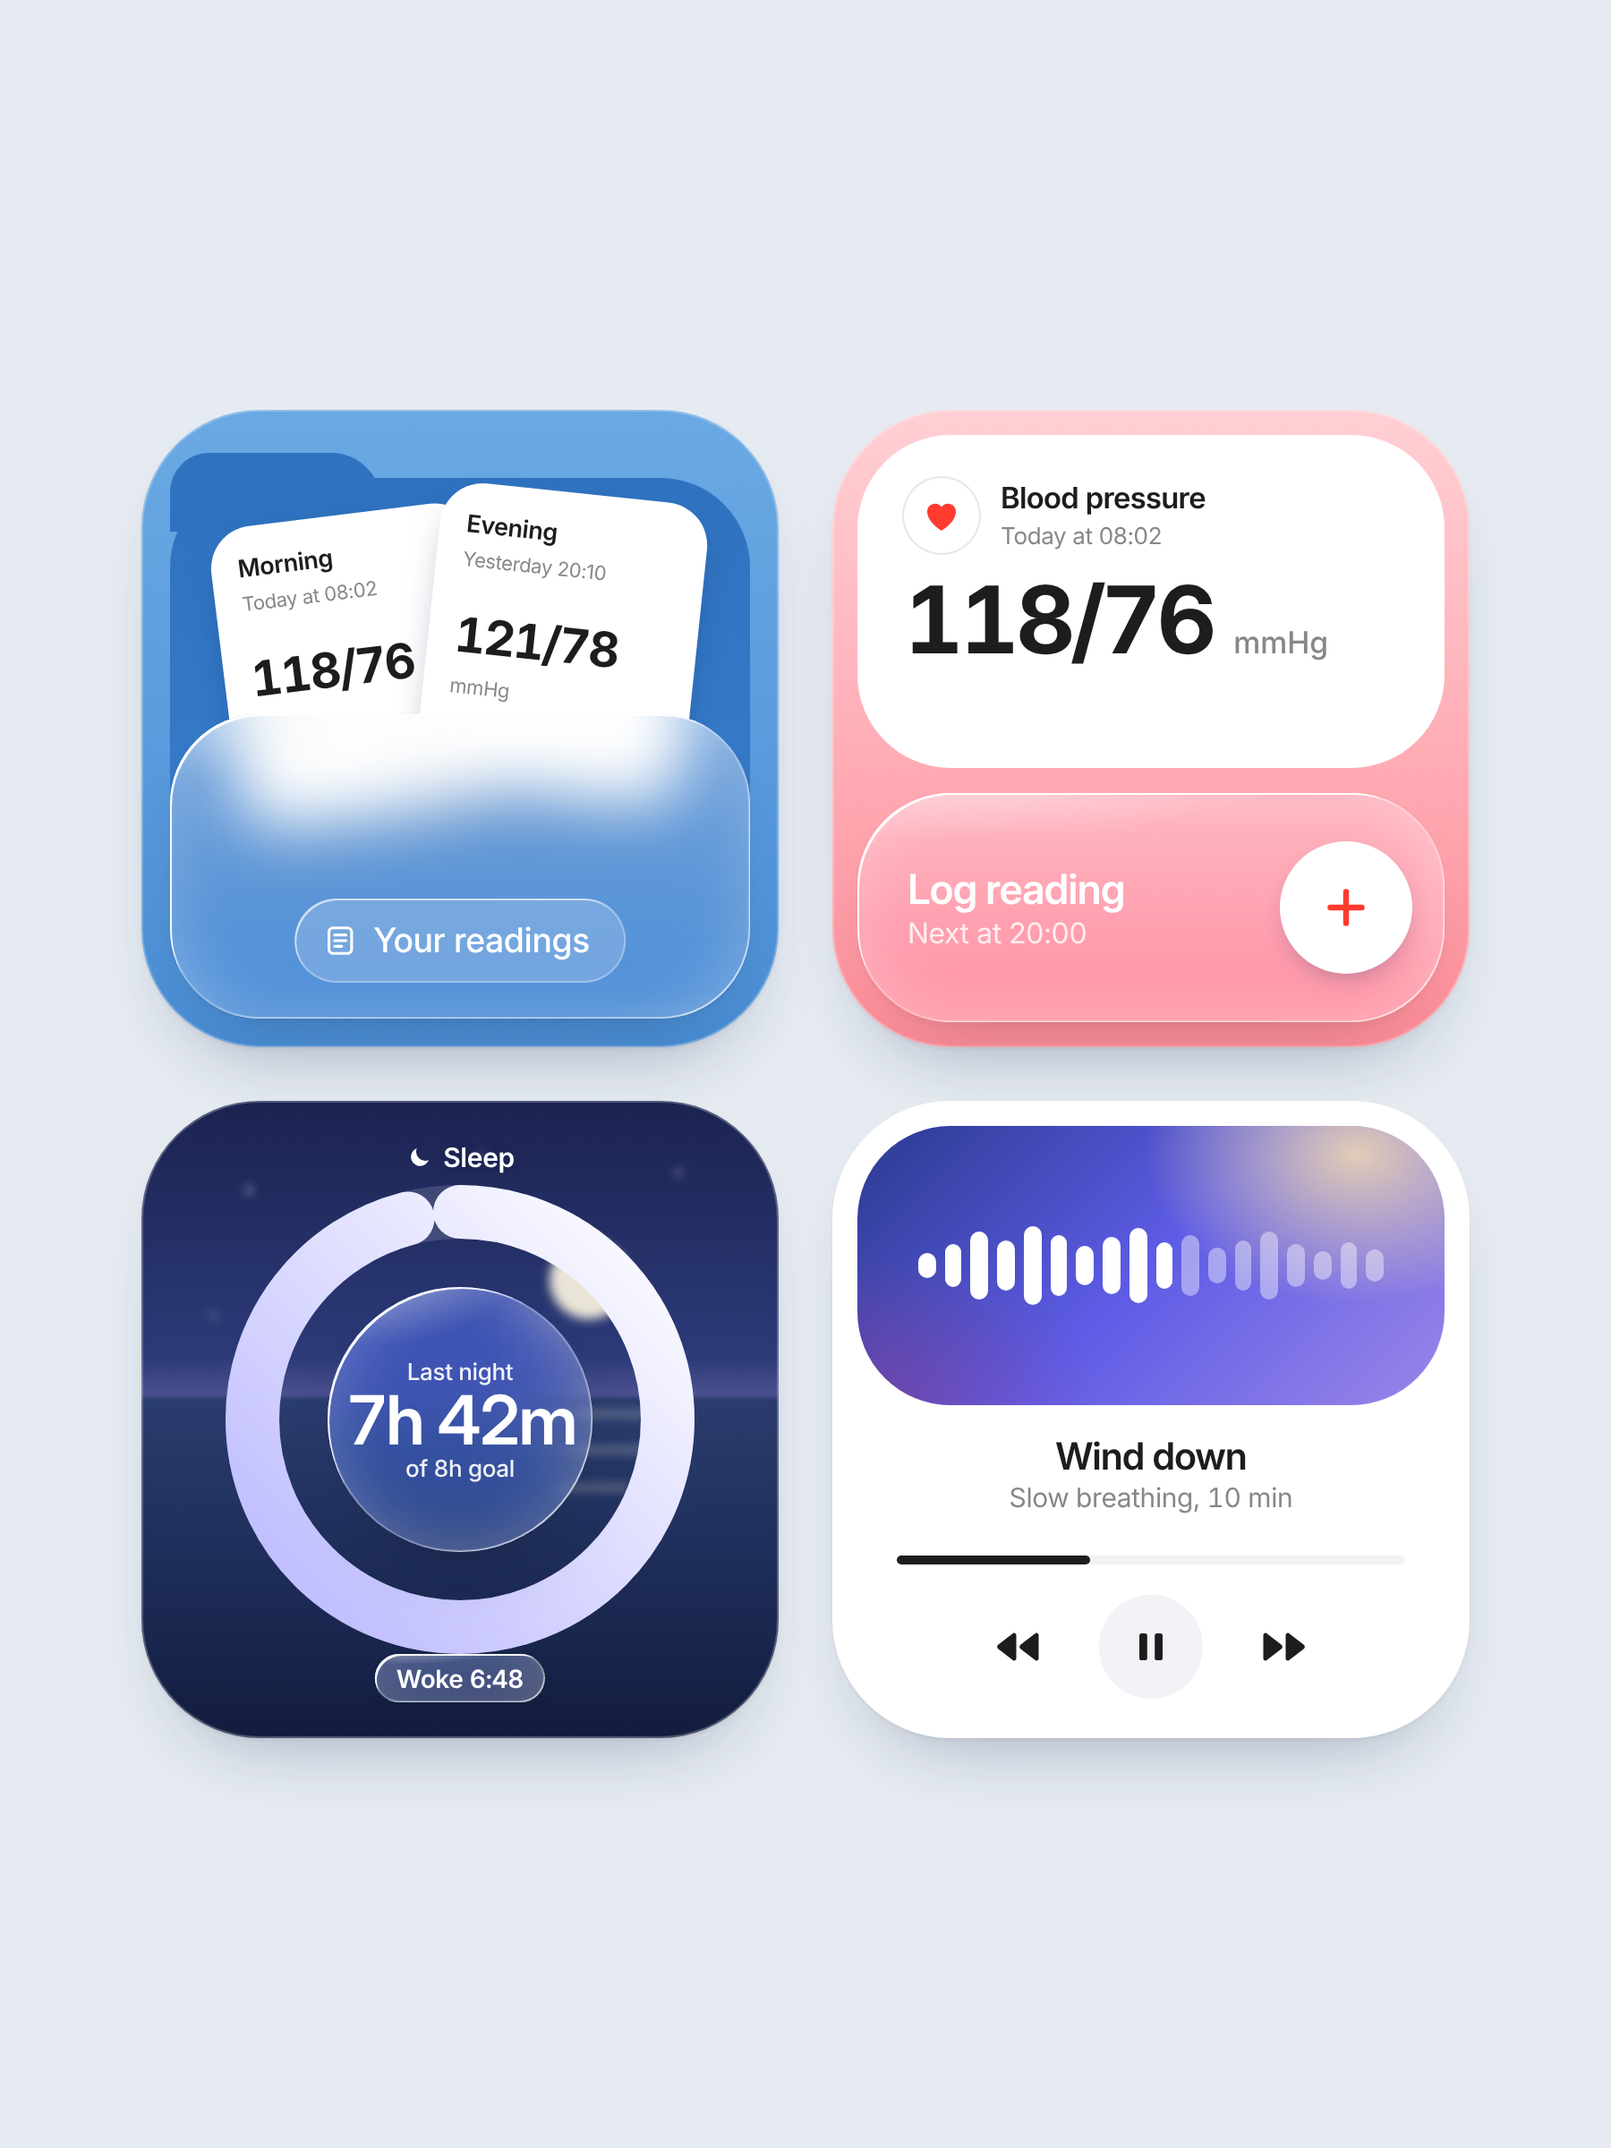
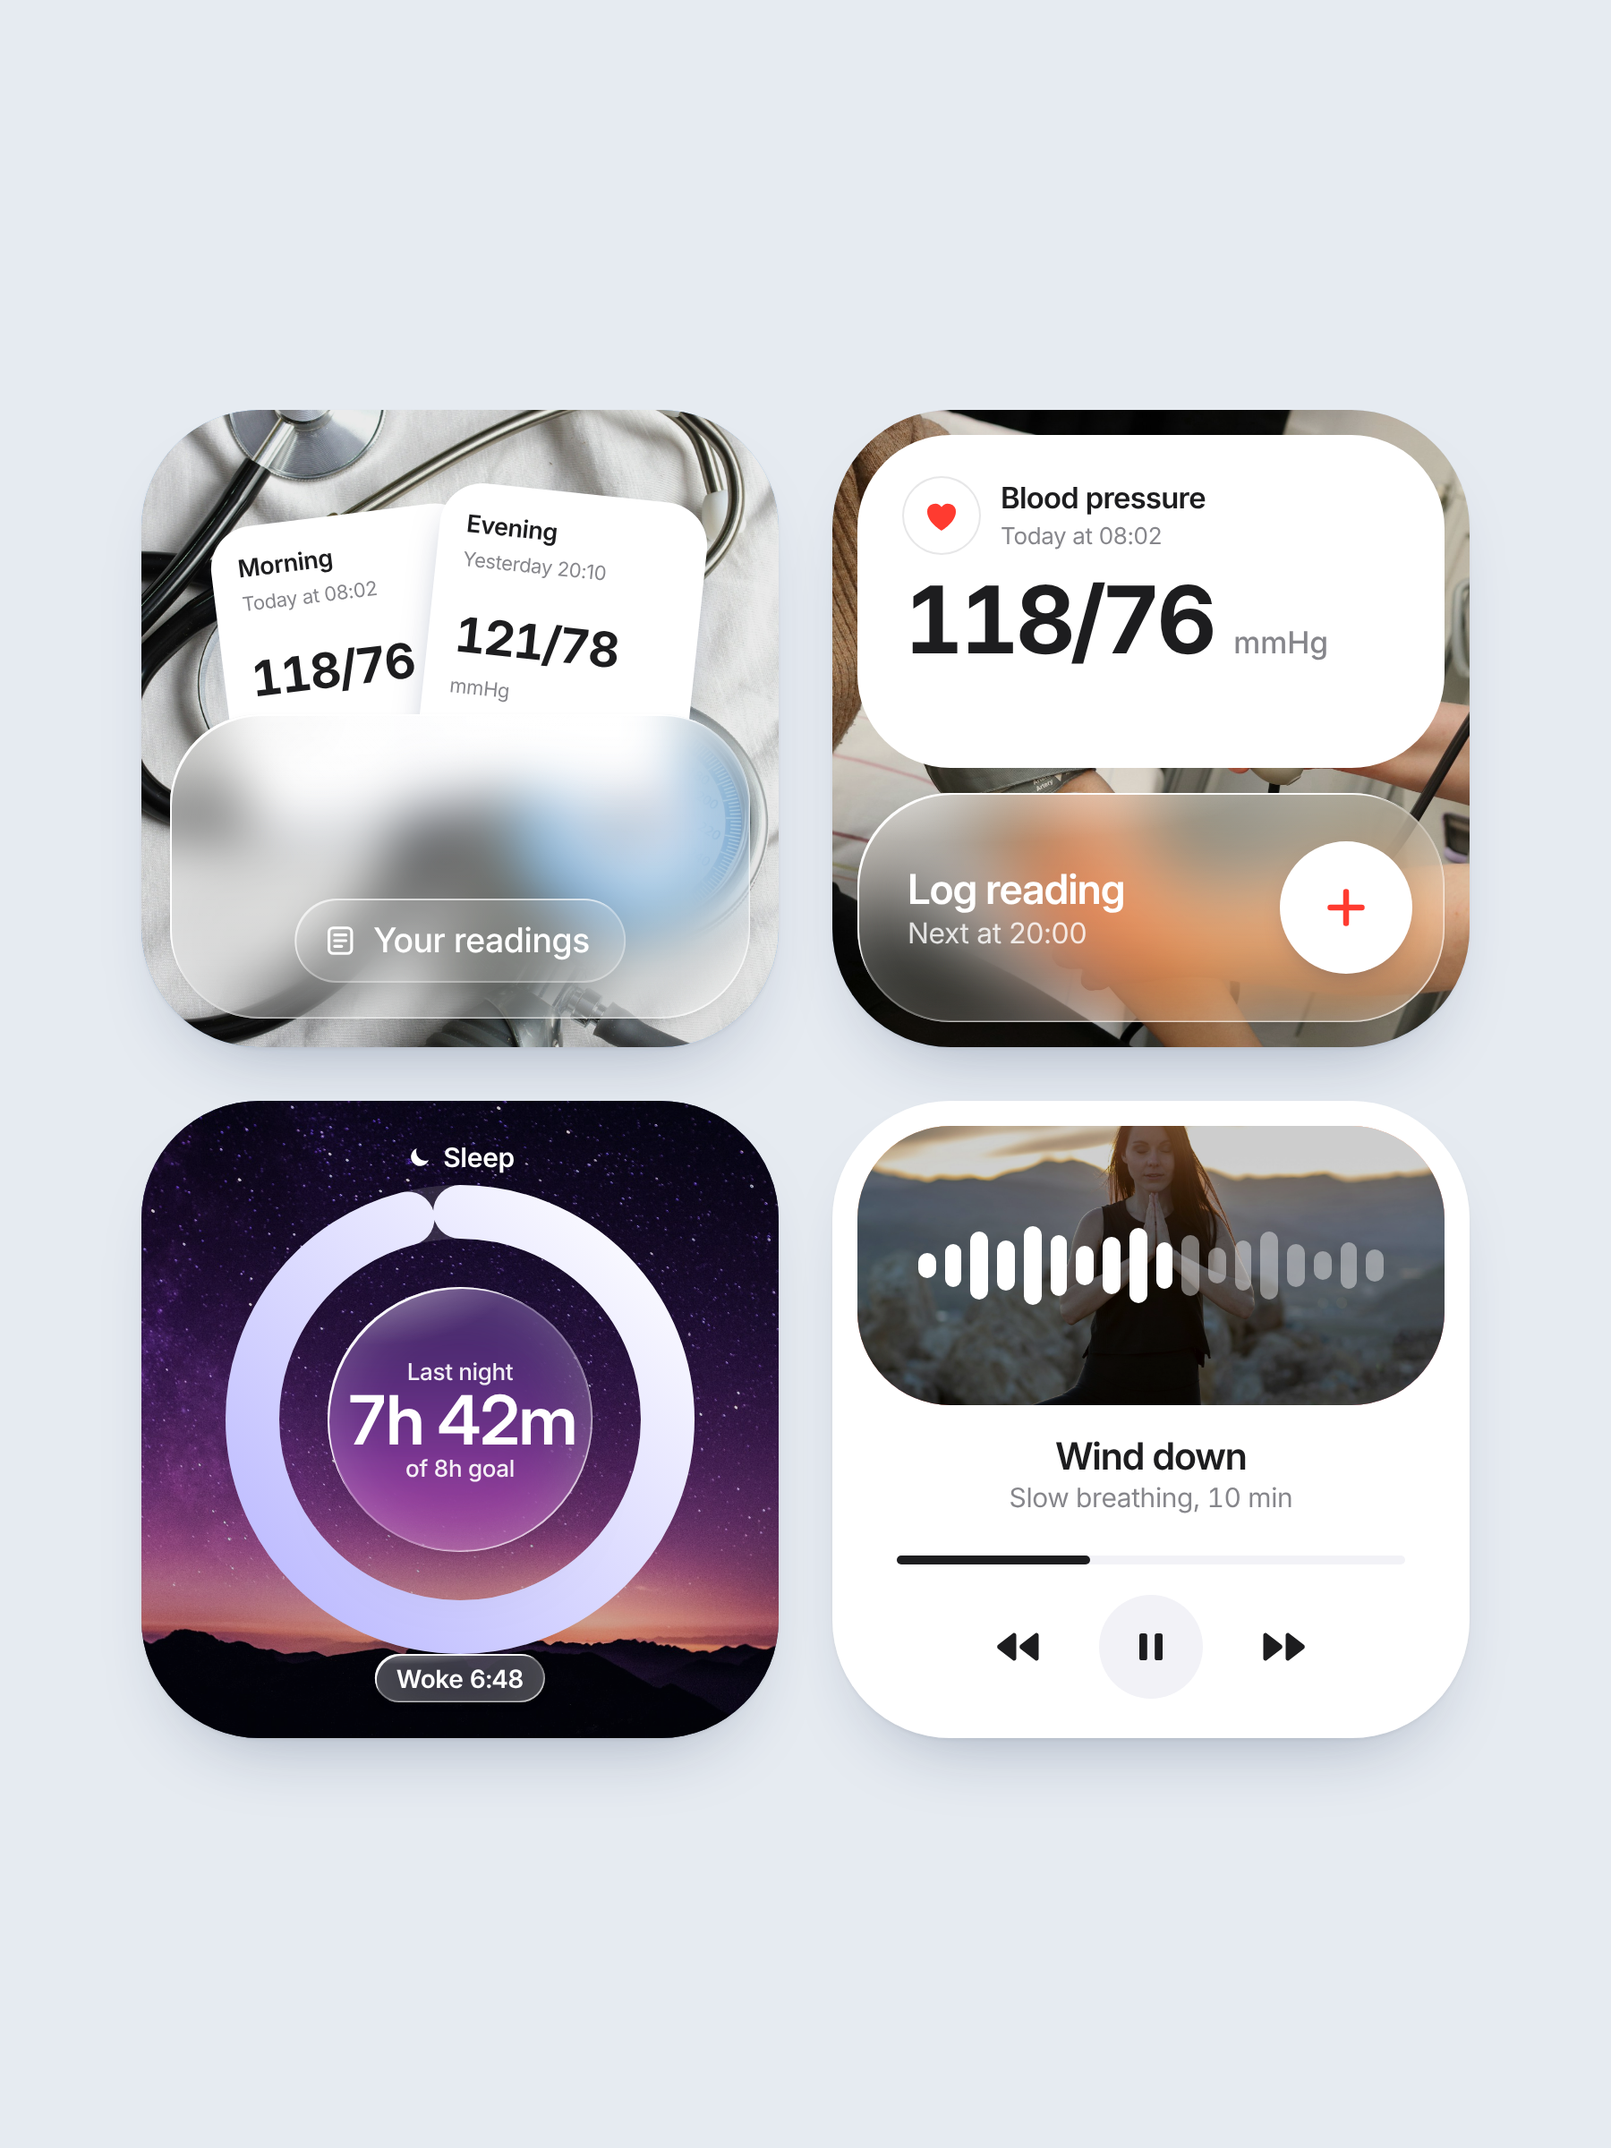
Health posters: put Unsplash health photos behind the glass
Claude-Session: https://claude.ai/code/session_01FJZ6JcD6mJrVFJSGPV3aNY

Changed region(s): [[0.0622, 0.1875, 0.9333, 0.8125]]

diff --git a/design/health/health-widgets.html b/design/health/health-widgets.html
@@ -283,6 +283,18 @@ svg{display:block}
 .f9 .qa div{width:100px;height:100px;border-radius:50%;display:grid;place-items:center}
 .f9 .home{position:absolute;bottom:28px;left:50%;transform:translateX(-50%);width:270px;height:9px;border-radius:9px;background:rgba(255,255,255,.85)}
 .stack{z-index:1}
+
+.ph{position:absolute;inset:0;width:100%;height:100%;object-fit:cover;display:block}
+.scrim{position:absolute;inset:0;pointer-events:none}
+#h1 .brief.lg{background:linear-gradient(180deg,rgba(255,255,255,.5),rgba(255,255,255,.32))}
+#h2 .ap.lg{background:linear-gradient(180deg,rgba(255,255,255,.2),rgba(255,255,255,.08));-webkit-backdrop-filter:blur(30px) saturate(170%);backdrop-filter:blur(30px) saturate(170%);overflow:hidden}
+#h2 .ap>.ap-head,#h2 .ap>.sheets{position:absolute}
+#h5 .note{color:rgba(29,29,31,.72)}
+#h2 .ap-head h2{text-shadow:0 1px 16px rgba(0,0,0,.25)}
+#h3 .w1 .flap.lg{background:linear-gradient(180deg,rgba(255,255,255,.28),rgba(255,255,255,.12));-webkit-backdrop-filter:blur(16px) saturate(150%);backdrop-filter:blur(16px) saturate(150%)}
+#h3 .w2 .bot.lg{background:linear-gradient(180deg,rgba(255,255,255,.22),rgba(255,255,255,.08))}
+#h4 .today.lg{background:linear-gradient(180deg,rgba(255,255,255,.4),rgba(246,247,250,.6))}
+#h5 .card.lg{background:linear-gradient(180deg,rgba(255,255,255,.42),rgba(255,255,255,.26))}
 </style>
 </head>
 <body>
@@ -314,9 +326,7 @@ svg{display:block}
 
 <!-- H1 · Daily insight -->
 <section class="frame f1" id="h1" aria-label="Daily insight">
-  <div class="sun"></div>
-  <div class="hill" style="top:840px;height:520px;background:#c7d6ec;opacity:.8"></div>
-  <div class="hill" style="top:960px;height:520px;left:20%;right:-30%;background:#a9c1e4;opacity:.8"></div>
+  <img class="ph" src="img/walk.jpg" alt="Woman stretching on a sunlit forest road"><div class="scrim" style="background:linear-gradient(180deg,rgba(255,236,200,.15),rgba(0,0,0,.05) 60%,rgba(0,0,0,.2))"></div>
   <div class="stage">
     <div class="fan" aria-hidden="true">
       <div class="n" style="left:0;transform:rotate(-8deg) translateY(26px)">
@@ -347,8 +357,8 @@ svg{display:block}
 
 <!-- H2 · Blood pressure card -->
 <section class="frame f2" id="h2" aria-label="Blood pressure this week">
-  <div class="ap" style="background:linear-gradient(160deg,#ff8f9c 0%,#ff5e72 36%,#ff7a8a 60%,#ffc4c2 82%,#cfe0f7 100%);box-shadow:inset 0 0 0 1px rgba(255,255,255,.35),inset 0 2px 0 rgba(255,255,255,.6),0 40px 80px -46px rgba(180,30,60,.55)">
-    <div class="sheen" style="background:radial-gradient(40% 30% at 82% 22%,rgba(255,255,255,.6),transparent 70%),radial-gradient(30% 50% at 105% 70%,rgba(170,205,255,.9),transparent 70%),radial-gradient(40% 30% at 10% 45%,rgba(255,60,90,.5),transparent 70%)"></div>
+  <img class="ph" src="img/cuff.jpg" alt="Blood pressure cuff and monitor on an arm" style="object-position:40% 50%"><div class="scrim" style="background:rgba(10,10,20,.12)"></div>
+  <div class="ap lg">
     <div class="ap-head">
       <div class="circ"><svg width="48" height="48" style="color:#ff3b30"><use href="#heart"/></svg></div>
       <h2 style="text-shadow:0 1px 12px rgba(160,20,50,.25)">Blood pressure</h2>
@@ -385,14 +395,13 @@ svg{display:block}
       </div>
     </div>
   </div>
-  <svg class="logo" width="48" height="48" viewBox="0 0 24 24"><rect width="24" height="24" rx="6" fill="#1463ff"/><g transform="translate(4 4) scale(.667)"><use href="#hp"/></g></svg>
-</section>
+  </section>
 
 <!-- H3 · Widget set -->
 <section class="frame f3" id="h3" aria-label="Health widget set">
   <div class="grid">
     <div class="w w1">
-      <div class="bk"></div>
+      <img class="ph" src="img/gauge.jpg" alt="Stethoscope and blood pressure gauge"><div class="scrim" style="background:rgba(0,0,0,.08)"></div>
       <div class="pk" style="left:46px;top:58px;transform:rotate(-7deg)"><b>Morning</b><small>Today at 08:02</small>
         <div class="tn" style="font-size:27px;font-weight:700;letter-spacing:-.035em;margin-top:18px">118/76</div><small>mmHg</small></div>
       <div class="pk" style="left:160px;top:46px;transform:rotate(6deg)"><b>Evening</b><small>Yesterday 20:10</small>
@@ -401,7 +410,8 @@ svg{display:block}
       <div class="cap2"><svg width="19" height="19" viewBox="0 0 24 24" fill="none" stroke="currentColor" stroke-width="2" stroke-linejoin="round"><rect x="4" y="3" width="16" height="18" rx="3"/><path d="M8 8h8M8 12h8M8 16h5" stroke-linecap="round"/></svg>Your readings</div>
     </div>
 
-    <div class="w w2" style="background:linear-gradient(180deg,#ffd0d4,#ff8e9a)">
+    <div class="w w2">
+      <img class="ph" src="img/check.jpg" alt="Person holding a blood pressure device" style="object-position:30% 50%"><div class="scrim" style="background:rgba(0,0,0,.12)"></div>
       <div class="top">
         <div class="who"><div class="av" style="background:#fff;box-shadow:0 0 0 1px var(--sep);color:#ff3b30"><svg width="24" height="24"><use href="#heart"/></svg></div><div><b>Blood pressure</b><small>Today at 08:02</small></div></div>
         <div class="tn" style="font-size:52px;font-weight:700;letter-spacing:-.045em;margin-top:12px;line-height:1">118/76 <span style="font-size:17px;font-weight:500;letter-spacing:0;color:var(--label-2)">mmHg</span></div>
@@ -413,11 +423,7 @@ svg{display:block}
     </div>
 
     <div class="w w3" style="background:linear-gradient(180deg,#1b2350 0%,#2c3a78 40%,#4a4f8f 46%,#2a3c6e 47%,#1d2c57 75%,#121c3d 100%)">
-      <svg class="scene" viewBox="0 0 356 356" preserveAspectRatio="none" aria-hidden="true">
-        <circle cx="250" cy="100" r="22" fill="#f3eedb" opacity=".95"/>
-        <g fill="#fff" opacity=".8"><circle cx="60" cy="50" r="1.6"/><circle cx="120" cy="90" r="1.2"/><circle cx="300" cy="40" r="1.4"/><circle cx="190" cy="30" r="1.1"/><circle cx="40" cy="120" r="1.2"/></g>
-        <path d="M200 175 h100 M215 195 h70 M232 216 h40" stroke="#f3eedb" stroke-width="3" opacity=".4" stroke-linecap="round"/>
-      </svg>
+      <img class="ph" src="img/night.jpg" alt="Starry night sky"><div class="scrim" style="background:rgba(10,10,40,.2)"></div>
       <div class="lbl"><svg width="15" height="15"><use href="#moon"/></svg>Sleep</div>
       <svg class="ring" width="292" height="292" viewBox="0 0 292 292">
         <defs><linearGradient id="rgs" x1="0" y1="0" x2="1" y2="1"><stop offset="0" stop-color="#b9b7ff"/><stop offset="1" stop-color="#ffffff"/></linearGradient></defs>
@@ -429,7 +435,7 @@ svg{display:block}
     </div>
 
     <div class="w w4">
-      <div class="art" style="background:linear-gradient(135deg,#2b3a8f 0%,#5e5ce6 50%,#9a86e8 100%)"><div class="wave" aria-hidden="true">
+      <div class="art"><img class="ph" src="img/yoga.jpg" alt="Woman in a yoga pose at sunset" style="object-position:50% 30%"><div class="scrim" style="background:rgba(0,0,0,.18)"></div><div class="wave" aria-hidden="true">
         <span style="height:20%"></span><span style="height:34%"></span><span style="height:52%"></span><span style="height:40%"></span><span style="height:62%"></span><span style="height:46%"></span><span style="height:30%"></span><span style="height:44%"></span><span style="height:58%"></span><span style="height:36%"></span><span class="d" style="height:48%"></span><span class="d" style="height:28%"></span><span class="d" style="height:40%"></span><span class="d" style="height:54%"></span><span class="d" style="height:32%"></span><span class="d" style="height:22%"></span><span class="d" style="height:36%"></span><span class="d" style="height:24%"></span>
       </div></div>
       <div class="meta"><b>Wind down</b><small class="tn">Slow breathing, 10 min</small></div>
@@ -445,11 +451,7 @@ svg{display:block}
 
 <!-- H4 · Today card -->
 <section class="frame f4" id="h4" aria-label="Today summary">
-  <div class="cl" style="left:-60px;top:70px;width:520px;height:220px"><span style="left:0;top:90px;width:260px;height:120px"></span><span style="left:120px;top:20px;width:220px;height:180px"></span><span style="left:260px;top:70px;width:240px;height:140px"></span></div>
-  <div class="cl" style="left:600px;top:150px;width:420px;height:200px;opacity:.85"><span style="left:0;top:80px;width:200px;height:100px"></span><span style="left:90px;top:20px;width:180px;height:150px"></span><span style="left:210px;top:60px;width:220px;height:120px"></span></div>
-  <div class="cl" style="left:-120px;top:620px;width:400px;height:200px;opacity:.75"><span style="left:0;top:70px;width:240px;height:110px"></span><span style="left:110px;top:10px;width:180px;height:150px"></span></div>
-  <div class="cl" style="left:700px;top:560px;width:360px;height:180px;opacity:.7"><span style="left:0;top:60px;width:200px;height:100px"></span><span style="left:100px;top:0;width:180px;height:150px"></span></div>
-  <div class="cl" style="left:40px;top:1000px;width:900px;height:300px"><span style="left:0;top:110px;width:360px;height:180px"></span><span style="left:200px;top:30px;width:300px;height:240px"></span><span style="left:430px;top:80px;width:380px;height:200px"></span></div>
+  <img class="ph" src="img/peaks.jpg" alt="Mountain peaks above the clouds at sunrise">
   <div class="today lg">
     <div class="card">
       <div class="island"></div>
@@ -476,18 +478,7 @@ svg{display:block}
 
 <!-- H5 · Reminders -->
 <section class="frame f5" id="h5" aria-label="Reminders">
-  <svg class="wall" viewBox="0 0 900 1200" preserveAspectRatio="none" aria-hidden="true">
-    <defs><linearGradient id="hs5" x1="0" y1="0" x2="0" y2="1"><stop offset="0" stop-color="#b7d6ea"/><stop offset=".55" stop-color="#e4eee6"/><stop offset="1" stop-color="#f1efe2"/></linearGradient>
-      <filter id="hb5"><feGaussianBlur stdDeviation="2"/></filter></defs>
-    <rect width="900" height="1200" fill="url(#hs5)"/>
-    <circle cx="690" cy="300" r="120" fill="#fff6dc" opacity=".8" filter="url(#hb5)"/>
-    <g filter="url(#hb5)">
-      <path d="M0 640 C160 560 330 600 470 560 S760 520 900 570 V1200 H0Z" fill="#b6d1ae"/>
-      <path d="M0 780 C220 700 420 760 610 710 S840 690 900 720 V1200 H0Z" fill="#8fbb8e"/>
-      <path d="M0 920 C260 850 520 920 900 850 V1200 H0Z" fill="#6a9e72"/>
-      <path d="M0 1060 C300 1000 600 1060 900 1010 V1200 H0Z" fill="#4f8360"/>
-    </g>
-  </svg>
+  <img class="ph" src="img/hills.jpg" alt="Green hills under a bright sky">
   <div class="card lg">
     <h3 style="font-size:54px;font-weight:700;letter-spacing:-.04em;line-height:1.02;padding:8px 6px 0">Make time<br>for you.</h3>
     <div class="slots" style="margin-top:30px">
@@ -502,18 +493,7 @@ svg{display:block}
 
 <!-- H6 · Lock screen -->
 <section class="frame f9" id="h6" aria-label="Lock screen reminder">
-  <svg class="wall" viewBox="0 0 900 1200" preserveAspectRatio="none" aria-hidden="true">
-    <defs><linearGradient id="hs9" x1="0" y1="0" x2="0" y2="1"><stop offset="0" stop-color="#e8a27a"/><stop offset=".35" stop-color="#f4c79c"/><stop offset=".6" stop-color="#f1d6c2"/></linearGradient>
-      <filter id="hb9"><feGaussianBlur stdDeviation="2"/></filter><filter id="hb9b" x="-60%" y="-60%" width="220%" height="220%"><feGaussianBlur stdDeviation="50"/></filter></defs>
-    <rect width="900" height="1200" fill="url(#hs9)"/>
-    <circle cx="560" cy="560" r="150" fill="#fff2d6" opacity=".85" filter="url(#hb9b)"/>
-    <g filter="url(#hb9)">
-      <path d="M0 640 L120 560 L210 610 L330 500 L450 590 L560 520 L690 600 L800 540 L900 590 V1200 H0Z" fill="#b997a6"/>
-      <path d="M0 760 L140 660 L260 730 L400 640 L520 720 L650 650 L780 730 L900 680 V1200 H0Z" fill="#8f7699"/>
-      <path d="M0 880 L170 790 L320 860 L470 780 L620 860 L760 800 L900 850 V1200 H0Z" fill="#62557e"/>
-      <path d="M0 1010 L200 930 L380 990 L560 920 L740 990 L900 950 V1200 H0Z" fill="#3b3a5c"/>
-    </g>
-  </svg>
+  <img class="ph" src="img/bedroom.jpg" alt="Sunlit bedroom in the morning"><div class="scrim" style="background:linear-gradient(180deg,rgba(0,0,0,.28),rgba(0,0,0,.05) 40%,rgba(0,0,0,.25))"></div>
   <div class="date">Monday, October 26</div>
   <div class="clock tn">8:00</div>
   <div class="stack">

diff --git a/design/health/img/CREDITS.md b/design/health/img/CREDITS.md
@@ -1,0 +1,15 @@
+# Photo credits
+
+All photos are from Unsplash, used under the Unsplash License (free to use, attribution not required but appreciated). None are Unsplash+.
+
+| File | Unsplash image | Used in |
+|---|---|---|
+| walk.jpg | https://images.unsplash.com/photo-1477332552946-cfb384aeaf1c | 1 Daily insight |
+| cuff.jpg | https://unsplash.com/photos/a-person-with-a-blood-pressure-meter-on-a-table-J0benOYAPbw | 2 Blood pressure |
+| gauge.jpg | https://unsplash.com/photos/stethoscope-and-blood-pressure-gauge-njrDE70M2VI | 3 Widgets (readings) |
+| check.jpg | https://unsplash.com/photos/a-person-with-a-blood-pressure-device-in-their-hand-vN5s_G5SPkY | 3 Widgets (log reading) |
+| night.jpg | https://images.unsplash.com/photo-1419242902214-272b3f66ee7a | 3 Widgets (sleep) |
+| yoga.jpg | https://unsplash.com/photos/woman-in-black-leggings-standing-on-rock-formation-during-sunset-cXNGLQf7Xdo | 3 Widgets (wind down) |
+| peaks.jpg | https://images.unsplash.com/photo-1506905925346-21bda4d32df4 | 4 Today |
+| hills.jpg | https://images.unsplash.com/photo-1470071459604-3b5ec3a7fe05 | 5 Reminders |
+| bedroom.jpg | https://unsplash.com/photos/cozy-bedroom-with-a-large-window-and-sunlight-3lQautLFzMs | 6 Lock screen |
